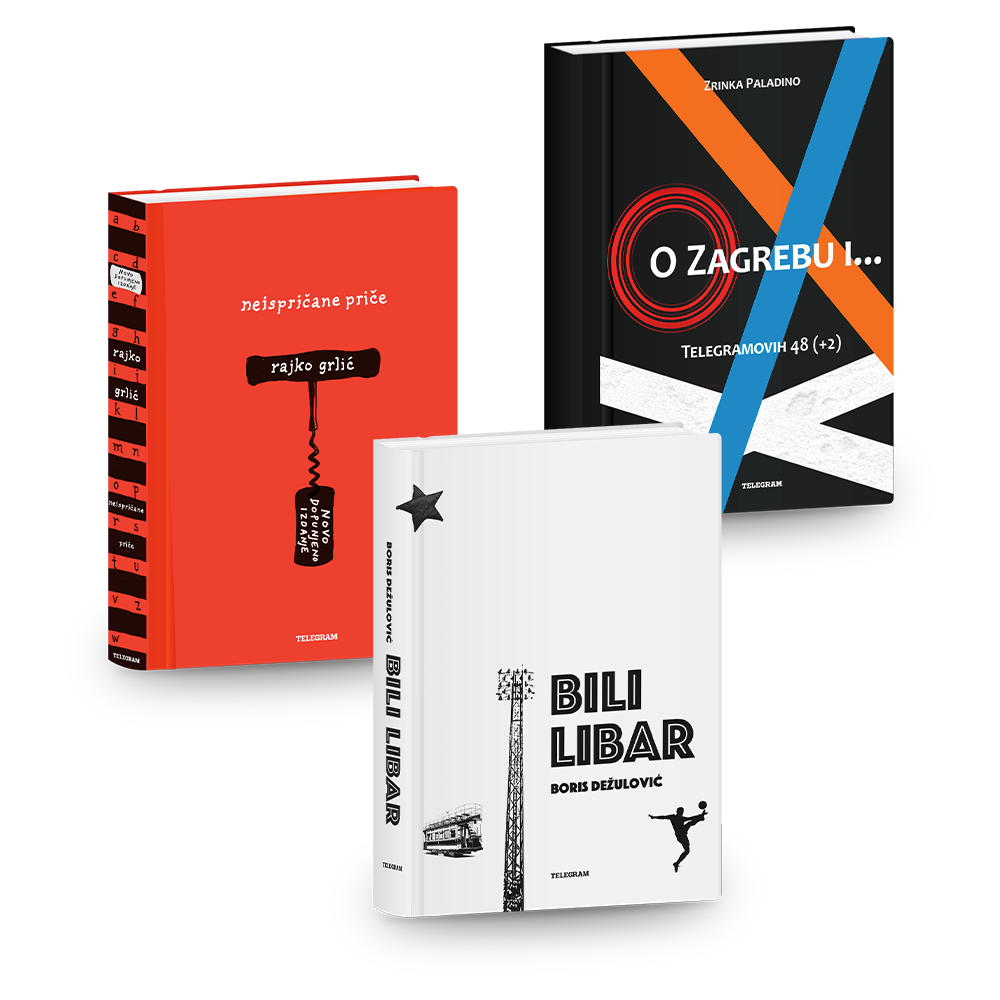
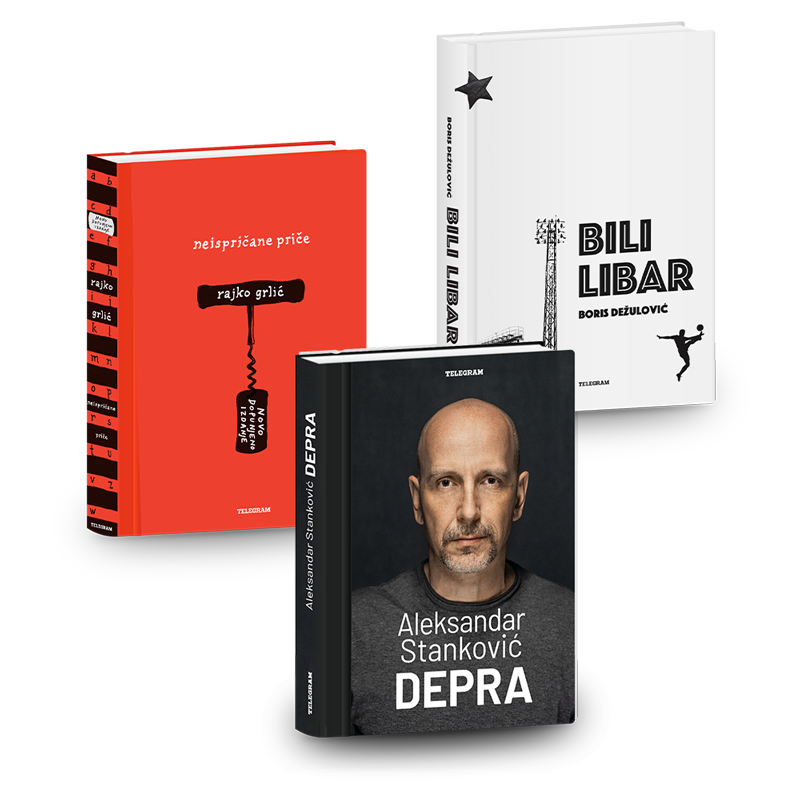
Update books on pretplata landing

diff --git a/assets/style.css b/assets/style.css
@@ -9152,6 +9152,9 @@ html.large-fontsize, .fontsize-previews .large-fontsize {
         left: 0;
         height: 100%;
     }
+    .knjiga-cover img {
+        max-width: 450px;
+    }
 }
 @media screen and (max-width: 767px) {
     .knjiga-features .big-book-price {
@@ -9242,9 +9245,6 @@ html.large-fontsize, .fontsize-previews .large-fontsize {
         max-width: 100%;
         margin-top: -48px;
         left: auto;
-    }
-    .knjiga-cover img {
-        max-width: 450px;
     }
     .knjiga-cover-2d img {
         max-width: 300px;

diff --git a/pages/pretplata/index.vue b/pages/pretplata/index.vue
@@ -306,6 +306,7 @@
                 Telegramove hit knjige po posebnoj cijeni za pretplatnike
               </h2>
               <p class="full">
+                Depra Aleksandra Stankovića, Igla, pila, ravnalo Sanje Modrić,
                 Bili libar Borisa Dežulovića, O Zagrebu Zrinke Paladino i
                 Neispričane priče Rajka Grlića.
               </p>
